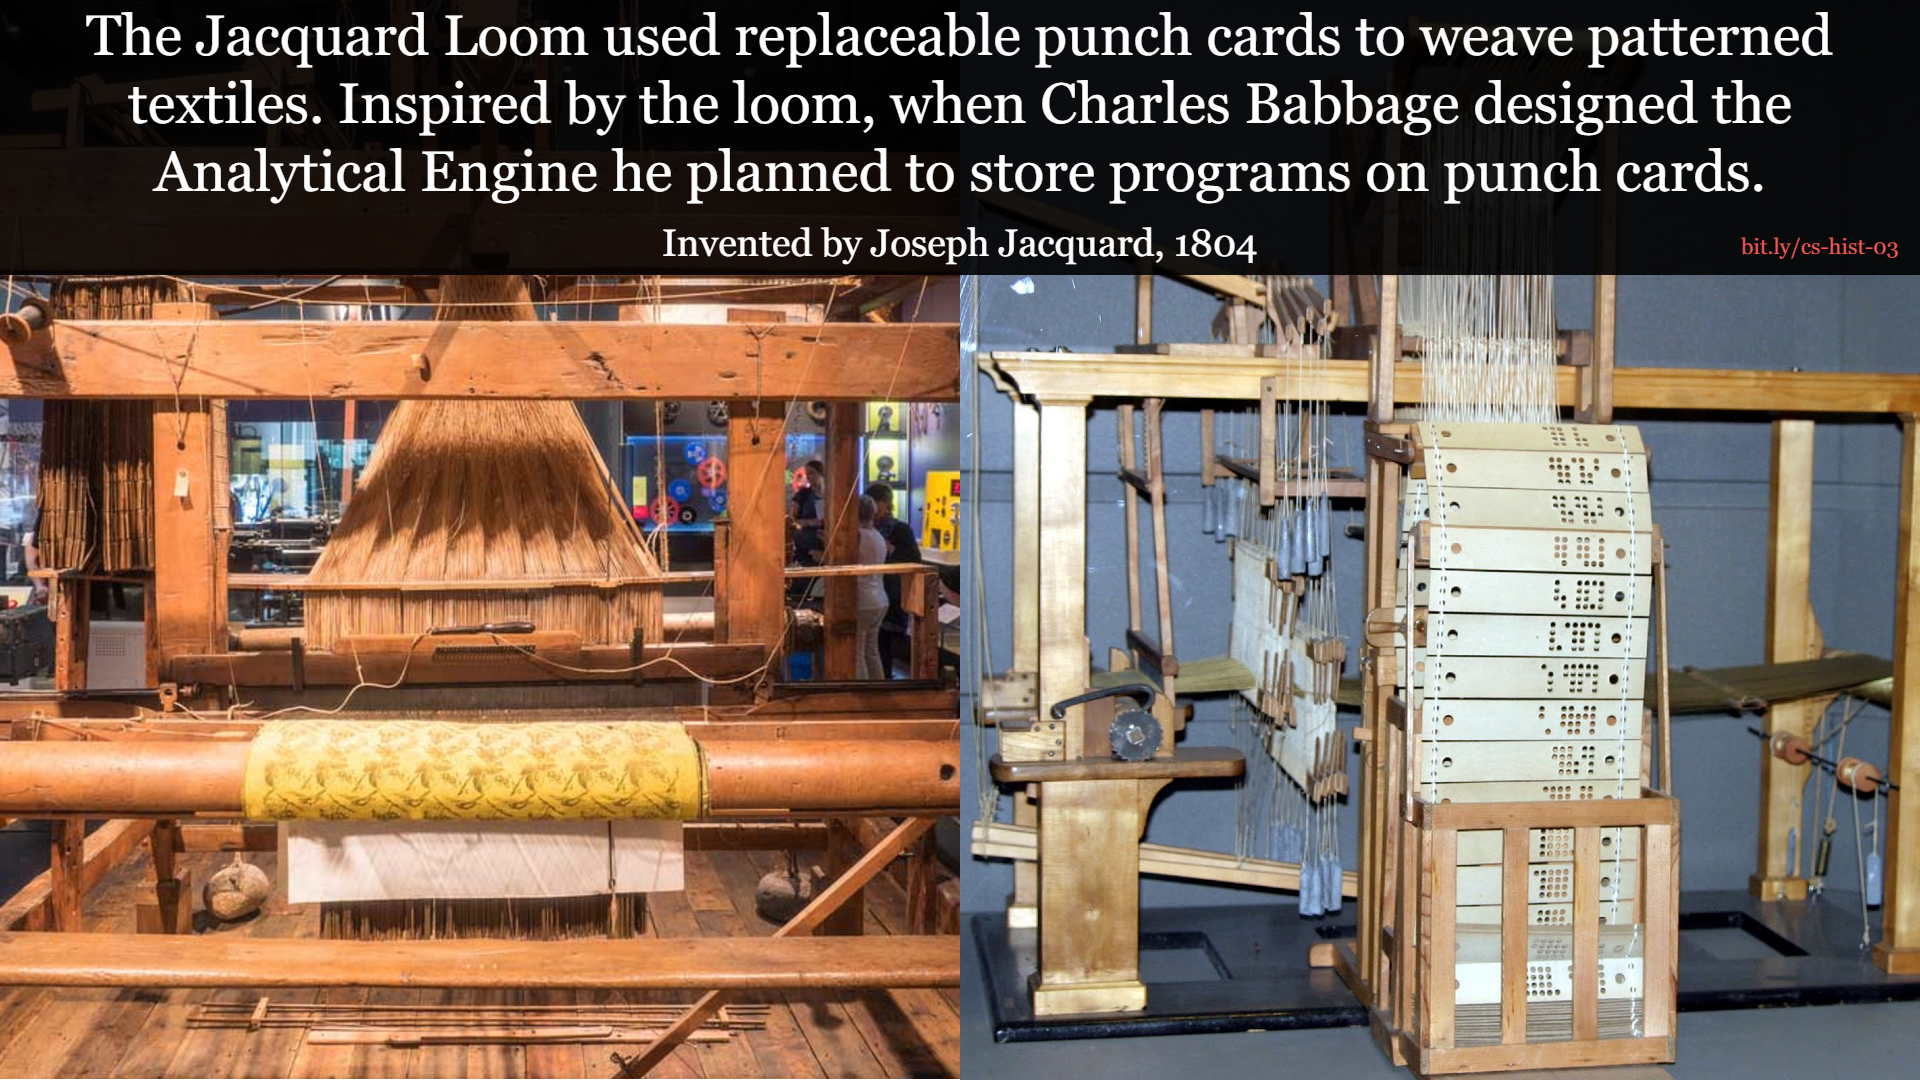
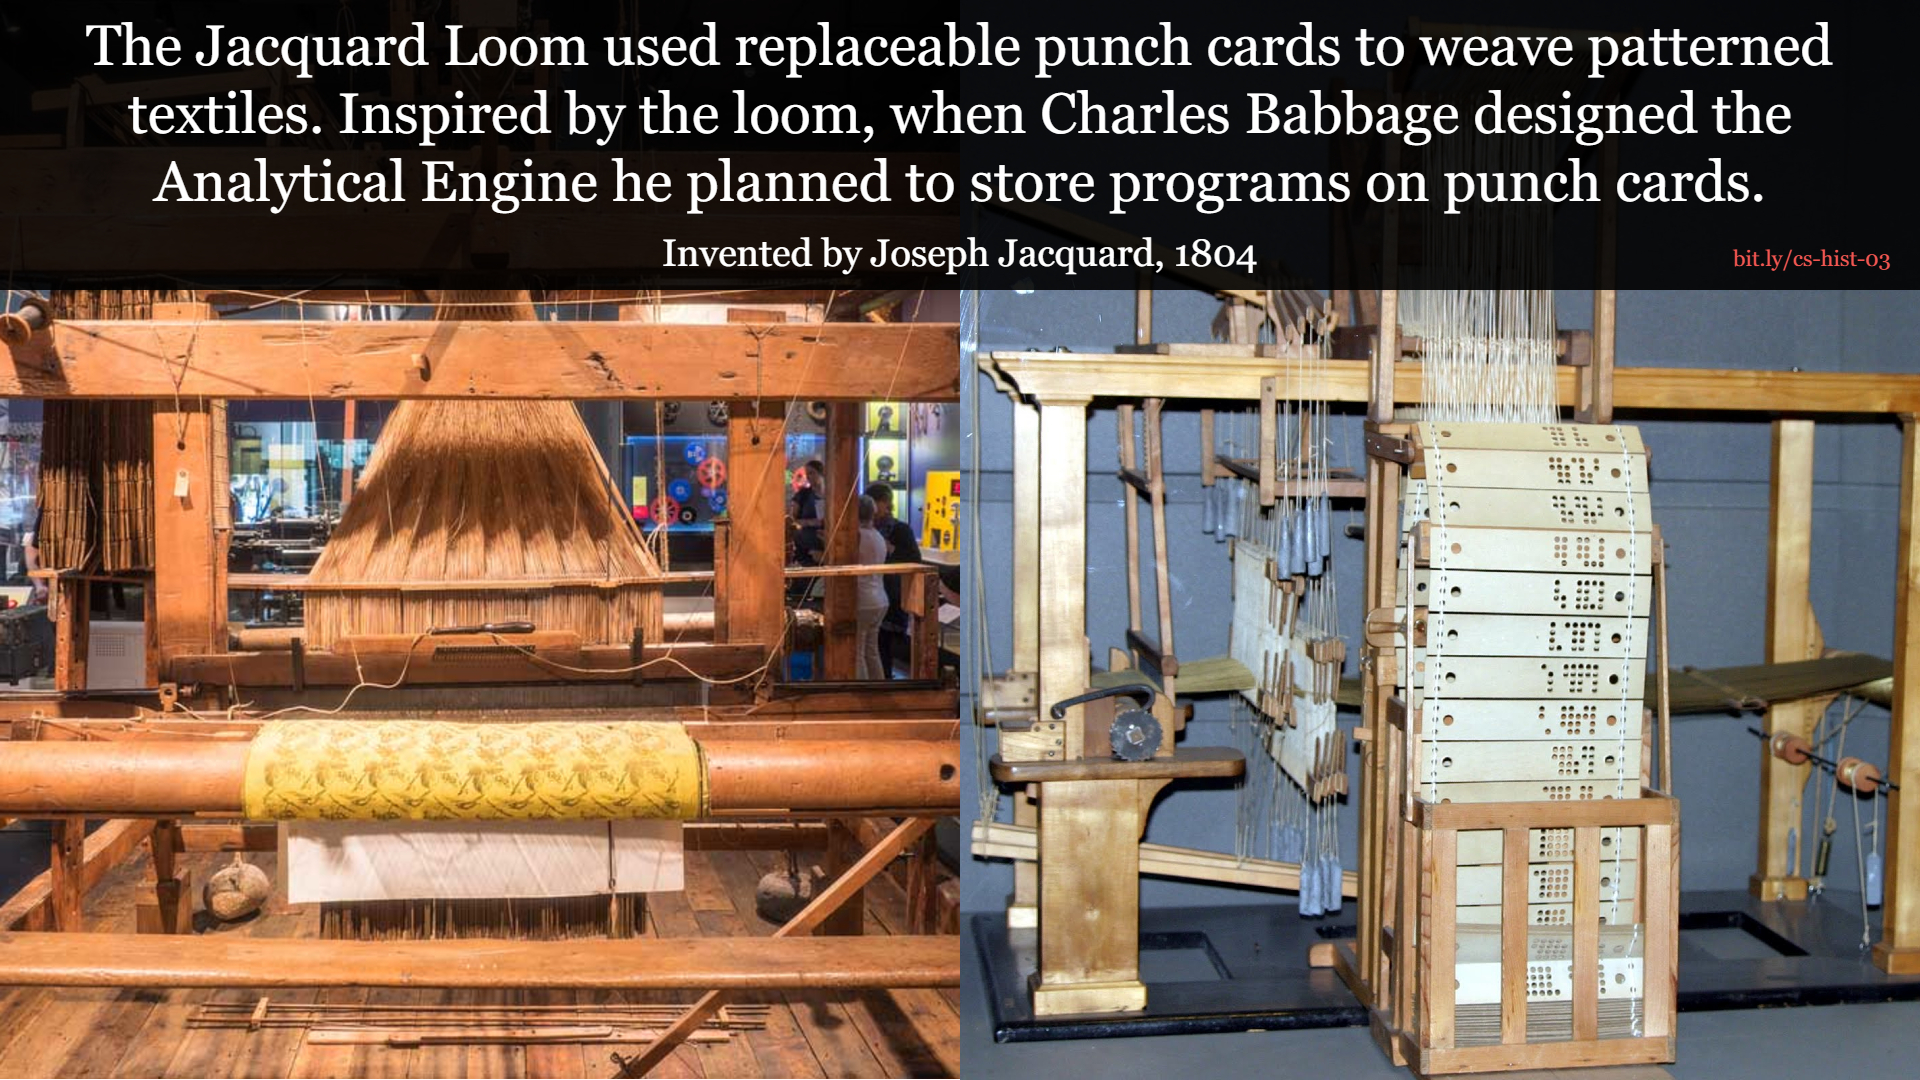
Add readme and cleanup jacquard-loom image spacing to be consistent with other backgrounds

Changed region(s): [[0.0, 0.0, 1.0, 0.275]]

diff --git a/README.md b/README.md
@@ -1,1 +1,17 @@
-# cs-history
+# Computer Science History Backgrounds
+
+Here are a collection of backgrounds I've created to help spark interest in Computer Science.
+I leave them on the projector during breaks so that students can learn some of the
+weirder and fun parts of computer science history. Here's a small sampling.
+
+### The Jacquard Loom
+
+![jacquard loom](1804-jacquard-loom/jacquard-loom.jpg)
+
+### The Analytical Engine
+
+![weave analytical engine](1842-sketch-of-analytical-engine/analytical-engine.jpg)
+
+### The First Computer Mouse
+
+![mouse origin](1968-demo-mouse/mouse-origin.jpg)
